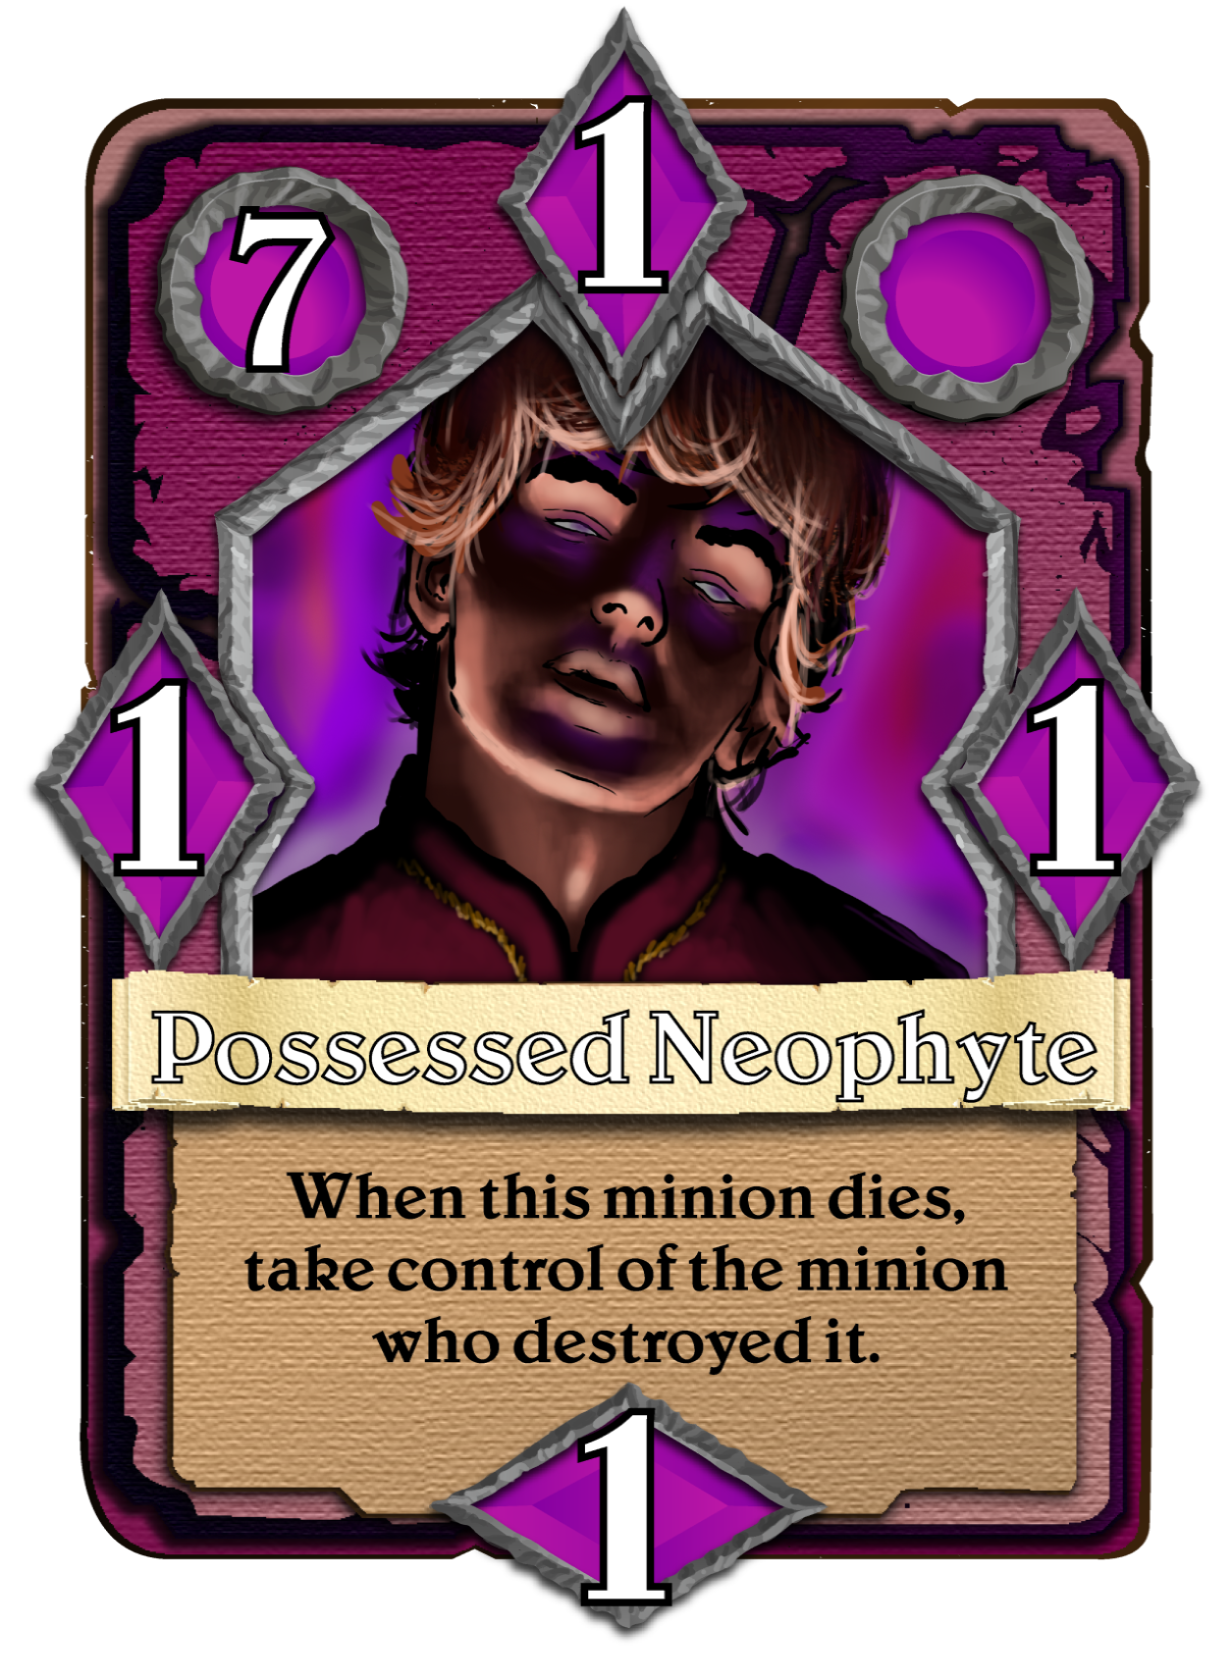
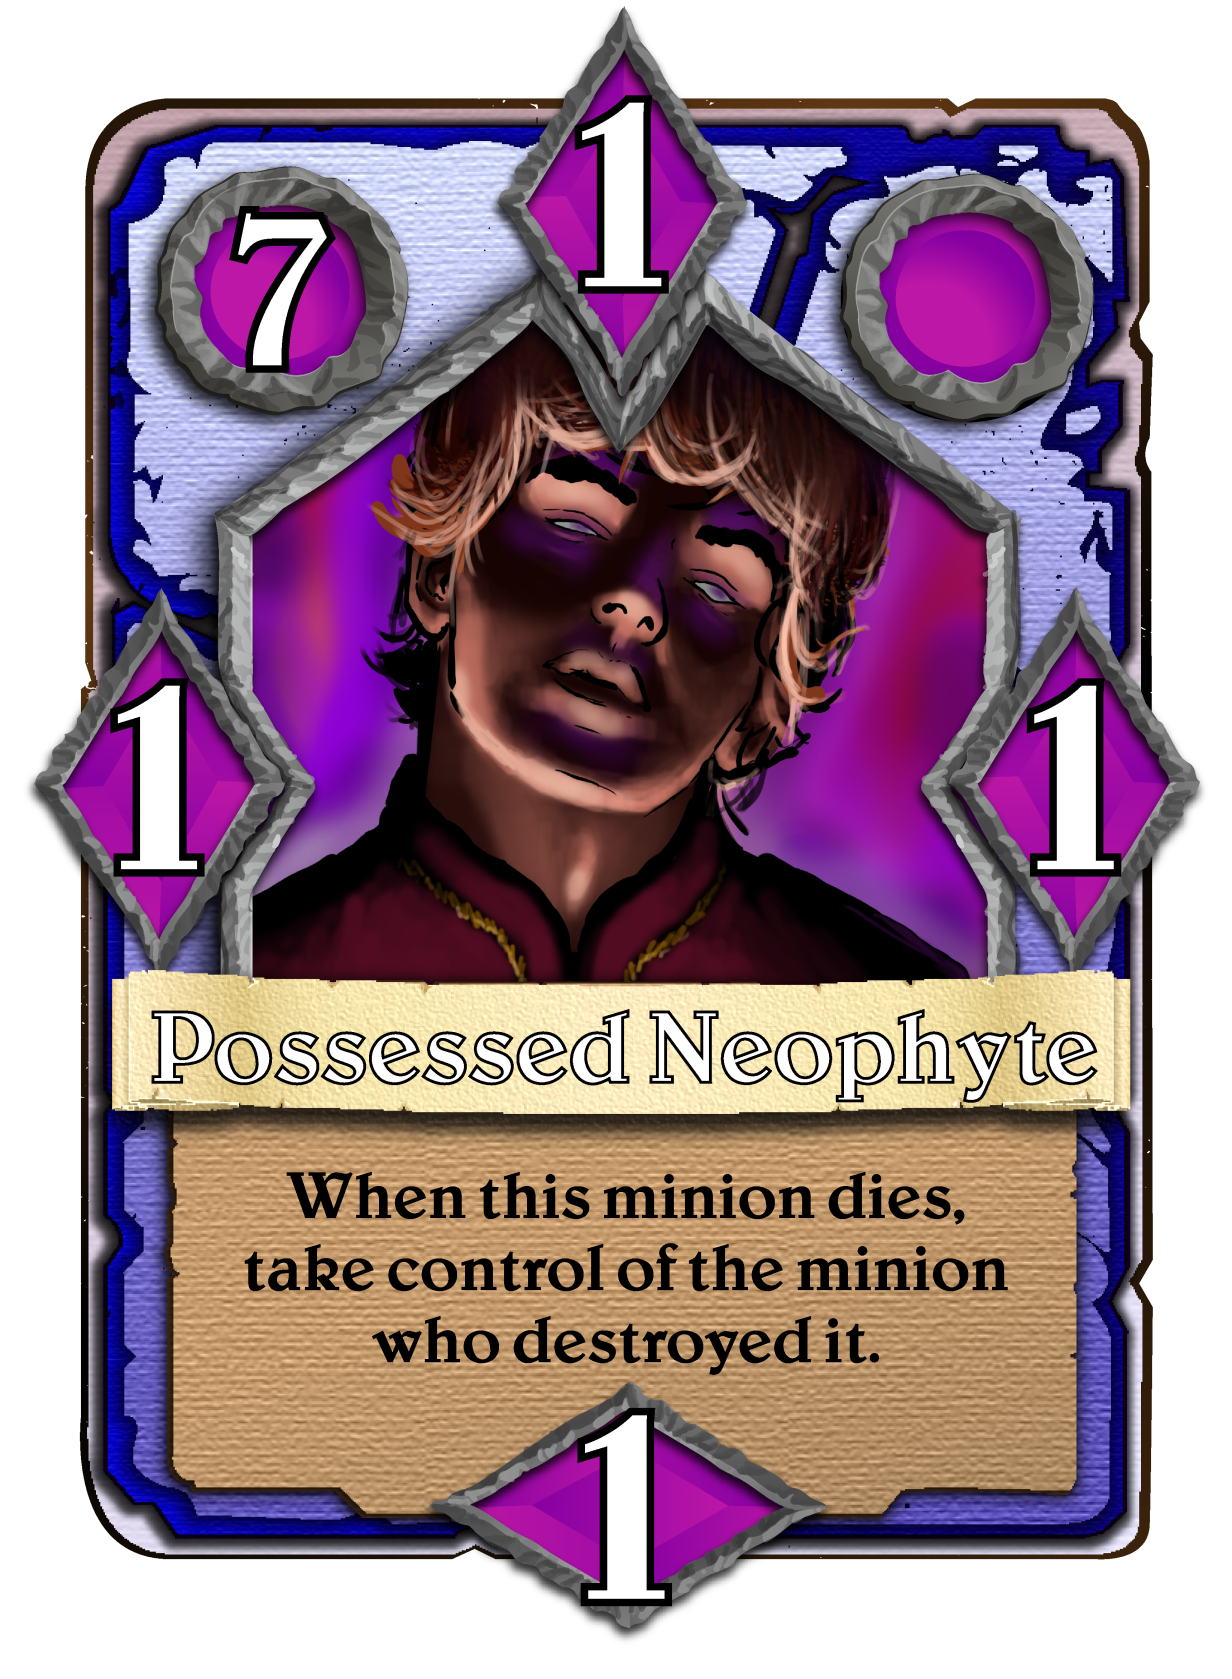
changed some flow control and when/how things are ordered. changed neophyte image to blue background. adjusted origin of rotation and degrees per to alter hand arc

diff --git a/Chalice_Android/Systems/InputManager.cs b/Chalice_Android/Systems/InputManager.cs
@@ -18,83 +18,106 @@ namespace Chalice_Android.Systems
         public Cursor cursor;
         KeyboardState ks;
         bool inputFlag = true;
+        Keys trackingKey;
         Card selectedCard; // may not need this since cursor has HeldCard
+        int timeHeld;
 
         public InputManager()
         {
             cursor = new Cursor();
         }
 
-        public void Update(Game1 game)
+        public void Update(Game1 game, GameTime gameTime)
         {
-            UpdateTouch(game);
+            UpdateTouch(game, gameTime);
 
             ks = Keyboard.GetState();
 
             if (ks.IsKeyDown(Keys.D) && inputFlag)
             {
                 inputFlag = false;
+                trackingKey = Keys.D;
                 game.Player1Hand.AddCards(game.Player1Deck.Deal(1));
             }
 
-            if (ks.IsKeyUp(Keys.D))
+            if (ks.IsKeyUp(Keys.D) && trackingKey == Keys.D)
             {
                 inputFlag = true;
+                trackingKey = Keys.None;
             }
 
             if (ks.IsKeyDown(Keys.Down))
             {
-                inputFlag = false;
-                game.rotationOrigin = game.rotationOrigin + new Vector2(0, 50);
+                game.Player1Hand.rotationOrigin = game.Player1Hand.rotationOrigin + new Vector2(0, 50);
+                game.Player1Hand.UpdatePositions();
+                Console.WriteLine(game.Player1Hand.rotationOrigin);
             }
 
             if (ks.IsKeyDown(Keys.Up))
             {
                 inputFlag = false;
-                game.rotationOrigin = game.rotationOrigin + new Vector2(0, -50);
+                game.Player1Hand.rotationOrigin = game.Player1Hand.rotationOrigin + new Vector2(0, -50);
+                game.Player1Hand.UpdatePositions();
+            }
+
+            if (ks.IsKeyDown(Keys.Left))
+            {
+                game.Player1Hand.radiansPer = game.Player1Hand.radiansPer - .01f;
+                game.Player1Hand.UpdatePositions();
+                Console.WriteLine(game.Player1Hand.radiansPer);
+            }
+
+            if (ks.IsKeyDown(Keys.Right))
+            {
+                game.Player1Hand.radiansPer = game.Player1Hand.radiansPer + .01f;
+                game.Player1Hand.UpdatePositions();
+                Console.WriteLine(game.Player1Hand.radiansPer);
             }
 
             if (ks.IsKeyDown(Keys.X) && inputFlag)
             {
                 inputFlag = false;
+                trackingKey = Keys.X;
                 game.basicEffectX = game.basicEffectX + 5;
                 game.basicEffect.World = Matrix.CreateRotationX(MathHelper.ToRadians(game.basicEffectX)) * Matrix.CreateRotationY(MathHelper.ToRadians(game.basicEffectY)) * Matrix.CreateRotationZ(MathHelper.ToRadians(game.basicEffectZ)) * Matrix.Identity;
             }
 
-            if (ks.IsKeyUp(Keys.X))
+            if (ks.IsKeyUp(Keys.X) && trackingKey == Keys.X)
             {
                 inputFlag = true;
+                trackingKey = Keys.None;
             }
 
             if (ks.IsKeyDown(Keys.Y) && inputFlag)
             {
                 inputFlag = false;
+                trackingKey = Keys.Y;
                 game.basicEffectY = game.basicEffectY + 5;
                 game.basicEffect.World = Matrix.CreateRotationX(MathHelper.ToRadians(game.basicEffectX)) * Matrix.CreateRotationY(MathHelper.ToRadians(game.basicEffectY)) * Matrix.CreateRotationZ(MathHelper.ToRadians(game.basicEffectZ)) * Matrix.Identity;
             }
 
-            if (ks.IsKeyUp(Keys.Y))
+            if (ks.IsKeyUp(Keys.Y) && trackingKey == Keys.Y)
             {
                 inputFlag = true;
+                trackingKey = Keys.None;
             }
 
             if (ks.IsKeyDown(Keys.Z) && inputFlag)
             {
                 inputFlag = false;
+                trackingKey = Keys.Z;
                 game.basicEffectZ = game.basicEffectZ + 5;
                 game.basicEffect.World = Matrix.CreateRotationX(MathHelper.ToRadians(game.basicEffectX)) * Matrix.CreateRotationY(MathHelper.ToRadians(game.basicEffectY)) * Matrix.CreateRotationZ(MathHelper.ToRadians(game.basicEffectZ)) * Matrix.Identity;
             }
 
-            if (ks.IsKeyUp(Keys.Z))
+            if (ks.IsKeyUp(Keys.Z) && trackingKey == Keys.Z)
             {
                 inputFlag = true;
+                trackingKey = Keys.None;
             }
-
-
-
         }
 
-        public void UpdateTouch(Game1 game)
+        public void UpdateTouch(Game1 game, GameTime gameTime)
         {
             tc = TouchPanel.GetState();
 
@@ -109,7 +132,19 @@ namespace Chalice_Android.Systems
             {
                 case TouchLocationState.Pressed:
 
-                    game.cards.ForEach(card =>
+                    if(cursor.Status == Cursor.CursorStatus.Zoomed)
+                    {
+                        cursor.HeldCard.Pos = cursor.PickupPoint.ToVector2();
+                        cursor.HeldCard.Scale = new Vector2(0.25f, 0.25f);
+                        cursor.Status = Cursor.CursorStatus.Empty;
+                        cursor.Active = false;
+                        cursor.HeldCard = null;
+
+                        game.Player1Hand.UpdatePositions();
+                        return;
+                    }
+
+                    game.Player1Hand._CardList.ForEach(card =>
                     {
                         card.ZIndex = 0;
                         
@@ -121,17 +156,13 @@ namespace Chalice_Android.Systems
                             if (!card.wasPlayed)
                             {
                                 selectedCard = card;
+                                timeHeld = (int)gameTime.TotalGameTime.TotalMilliseconds;
 
                                 // AFRICA: Move this to a routine in Cursor
                                 cursor.HeldCard = card;
                                 cursor.Active = true;
                                 cursor.Status = Cursor.CursorStatus.Staged;
                                 cursor.PickupPoint = card.Pos.ToPoint();
-
-                                card.ZIndex = 1;
-                                card.Rotation3D.Z = 0f;
-                                card.Pos = card.Pos + (Vector2.UnitY * -450);
-                                card.Scale = new Vector2(0.35f, 0.35f);
 
                                 Cell cell = game.Board.GameGrid.Cells.Find(c => c.Occupant == card);
                                 if (cell != null)
@@ -143,9 +174,16 @@ namespace Chalice_Android.Systems
                         }
                     });
 
-                    if (cursor.Active)
+                    if (cursor.HeldCard != null)
                     {
-                        game.Player1Hand._CardList = game.Player1Hand._CardList.OrderBy(c => c.ZIndex).ThenBy(c => c._InitialIndex).ToList();
+                        cursor.HeldCard.ZIndex = 1;
+                        cursor.HeldCard.Rotation3D.Z = 0f;
+                        cursor.HeldCard.Pos = cursor.HeldCard.Pos + (Vector2.UnitY * -500);
+                        cursor.HeldCard.Scale = new Vector2(0.35f, 0.35f);
+                    }
+                    else
+                    {
+                        game.Player1Hand.AddCards(game.Player1Deck.Deal(1));
                     }
 
                     cursor.Update(touch);
@@ -162,6 +200,16 @@ namespace Chalice_Android.Systems
 
                 case TouchLocationState.Released:
 
+                    if (cursor.HeldCard == null || cursor.Status == Cursor.CursorStatus.Zoomed) return;
+
+                    if (gameTime.TotalGameTime.TotalMilliseconds - timeHeld <= 200)
+                    {
+                        cursor.HeldCard.Pos = new Vector2(game.GraphicsDevice.Viewport.Width / 2, game.GraphicsDevice.Viewport.Height / 2);
+                        cursor.HeldCard.Scale = new Vector2(1f, 1f);
+                        cursor.Status = Cursor.CursorStatus.Zoomed;
+                        return;
+                    }
+
                     game.Board.GameGrid.Cells.ForEach(cell =>
                     {
                         if (cell.Rectangle.Contains(touch.Position.ToPoint()))
@@ -173,6 +221,7 @@ namespace Chalice_Android.Systems
                                 cursor.HeldCard.wasPlayed = true;
                                 cell.isOccupied = true;
                                 cell.Occupant = cursor.HeldCard;
+                                cursor.Status = Cursor.CursorStatus.Empty;
                                 cursor.Active = false;
                                 cursor.HeldCard = null;
                                 game.Player1Hand.RemoveCard(selectedCard);
@@ -189,6 +238,7 @@ namespace Chalice_Android.Systems
                     {
                         cursor.HeldCard.Pos = cursor.PickupPoint.ToVector2();
                         cursor.HeldCard.Scale = new Vector2(0.25f, 0.25f);
+                        cursor.Status = Cursor.CursorStatus.Empty;
                         cursor.Active = false;
                         cursor.HeldCard = null;
 
@@ -237,7 +287,8 @@ namespace Chalice_Android.Systems
         {
             Empty,
             Staged,
-            Grabbed
+            Grabbed,
+            Zoomed
         }
     }
 }

diff --git a/Chalice_Android/Game1.cs b/Chalice_Android/Game1.cs
@@ -93,19 +93,19 @@ namespace Chalice_Android
             Player1Deck = new Deck(new List<Card>
             {
                 new Boar(Content),
-                //new Boar(Content),
-                //new Boar(Content),
-                //new Boar(Content),
-                //new Boar(Content),
-                //new Boar(Content),
-                //new Boar(Content),
-                //new Boar(Content),
-                //new Boar(Content),
-                //new Possessed_Neophyte(Content),
-                //new Possessed_Neophyte(Content),
-                //new Possessed_Neophyte(Content),
-                //new Possessed_Neophyte(Content),
-                //new Possessed_Neophyte(Content)
+                new Boar(Content),
+                new Boar(Content),
+                new Boar(Content),
+                new Boar(Content),
+                new Boar(Content),
+                new Boar(Content),
+                new Boar(Content),
+                new Boar(Content),
+                new Possessed_Neophyte(Content),
+                new Possessed_Neophyte(Content),
+                new Possessed_Neophyte(Content),
+                new Possessed_Neophyte(Content),
+                new Possessed_Neophyte(Content)
             });
 
             Player1Deck.Shuffle(); // make shuffle take iterations as param
@@ -118,14 +118,9 @@ namespace Chalice_Android
 
             Player1Hand = new Hand();
             Player1Hand.Position = new Vector2((graphics.GraphicsDevice.Viewport.Width / 2f), graphics.GraphicsDevice.Viewport.Height - 350);
-            Player1Hand.rotationOrigin = Player1Hand.Position + (Vector2.UnitY * 1200);
+            Player1Hand.rotationOrigin = Player1Hand.Position + (Vector2.UnitY * 1600);
             rotationOrigin = Player1Hand.Position;
             Player1Hand.AddCards(Player1Deck.Deal(3));
-
-            for(int i = 0; i < Player1Hand._CardList.Count; i++)
-            {
-                Player1Hand._CardList[i]._InitialIndex = i;
-            }
 
             var viewportAdapter = new BoxingViewportAdapter(Window, GraphicsDevice, GraphicsDevice.Viewport.Width, GraphicsDevice.Viewport.Height);
             _camera = new Camera2D(viewportAdapter);
@@ -176,7 +171,7 @@ namespace Chalice_Android
 
                 //HandleInputCamera(keyboardState, deltaTime);
 
-                inputManager.Update(this);
+                inputManager.Update(this, gameTime);
 
                 cards.ForEach(card => card.Update(gameTime.GetElapsedSeconds()));
 
@@ -193,14 +188,15 @@ namespace Chalice_Android
             spriteBatch.Begin();
                 //move this into the GameBoard and render it there
                 spriteBatch.Draw(_background, Vector2.Zero, null, Color.White, 0f, Vector2.Zero, 1f, SpriteEffects.None, 0f);
-
-                //renderables.OrderBy(r => r.ZIndex).ToList().ForEach(r => { if (r.isActive) r.Render(spriteBatch, rotationOrigin); } );
+                Board.GameGrid.Cells.Where(c => c.Occupant != null).Select(c => c.Occupant).OrderBy(r => r.ZIndex).ToList().ForEach(r => { if (r.isActive) r.Render(spriteBatch, rotationOrigin); });
+            //renderables.OrderBy(r => r.ZIndex).ToList().ForEach(r => { if (r.isActive) r.Render(spriteBatch, rotationOrigin); } );
 
             spriteBatch.End();
 
             spriteBatch.Begin(0, null, null, null, null, basicEffect);
-
-                renderables.OrderBy(r => r.ZIndex).ToList().ForEach(r => { if (r.isActive) r.Render(spriteBatch, rotationOrigin); });
+            
+                Player1Hand._CardList.OrderBy(r => r.HandId).ThenBy(r => r.ZIndex).ToList().ForEach(r => { if (r.isActive) r.Render(spriteBatch, rotationOrigin); });
+                
 
             spriteBatch.End();
 

diff --git a/Chalice_Android/Entities/Deck.cs b/Chalice_Android/Entities/Deck.cs
@@ -8,10 +8,12 @@ namespace Chalice_Android.Entities
     public class Deck
     {
         public List<Card> _CardList { get; private set; }
+        public int InitialSize;
 
         public Deck(List<Card> list)
         {
             _CardList = list;
+            InitialSize = list.Count;
         }
 
         private static Random rng = new Random();
@@ -47,6 +49,7 @@ namespace Chalice_Android.Entities
             {
                 Card card = deck.Pop();
                 card.isActive = true;
+                card.HandId = InitialSize - _CardList.Count;
                 outCards.Add(card);
             }
 

diff --git a/Chalice_Android/Entities/Card.cs b/Chalice_Android/Entities/Card.cs
@@ -51,7 +51,7 @@ namespace Chalice_Android.Entities
         public void Render(SpriteBatch spriteBatch, Vector2 origin)
         {
             spriteBatch.Draw(Texture, Pos, null, Color.White, Rotation3D.Z, Origin, Scale, SpriteEffects.None, 0f);
-            spriteBatch.DrawRectangle(Collider, Color.Azure, 5f);
+            //spriteBatch.DrawRectangle(Collider, Color.Azure, 5f);
             //spriteBatch.FillRectangle(new Rectangle((Pos + Origin * Scale - (5 * Vector2.One)).ToPoint(), new Point(10,10)), Color.GreenYellow);
         }
 

diff --git a/Chalice_Android/Entities/Hand.cs b/Chalice_Android/Entities/Hand.cs
@@ -14,6 +14,7 @@ namespace Chalice_Android.Entities
         public List<Card> _CardList;
         public Vector2 Position;
         public Vector2 rotationOrigin;
+        public float radiansPer = 0.13f;
         public int TotalCardsThisGame = 0;
 
         public Hand()
@@ -72,7 +73,7 @@ namespace Chalice_Android.Entities
                 return;
             }
 
-            float radiansPer = .25f;
+            //radiansPer = .25f;
 
             float startingRotation = -1 * ((_CardList.Count - 1) * radiansPer / 2);
             
